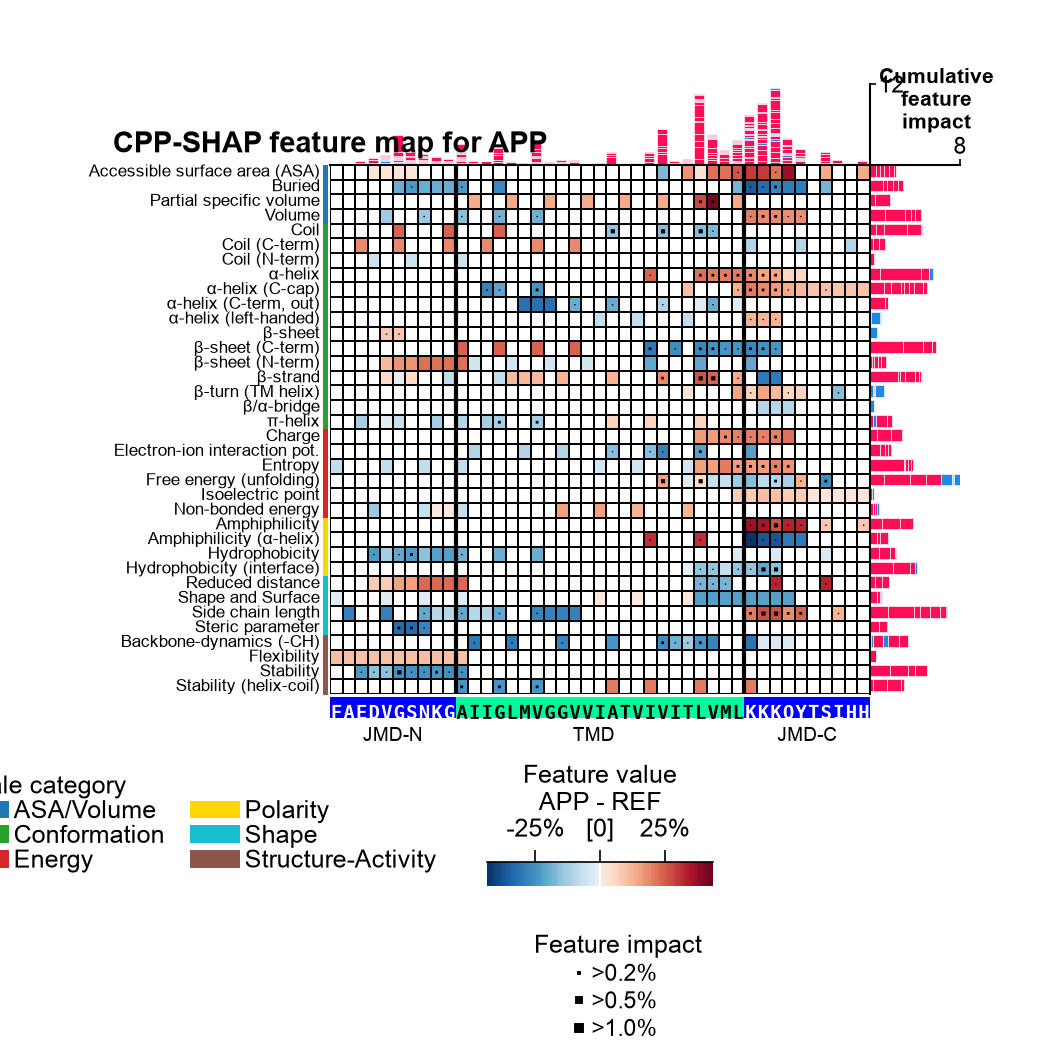
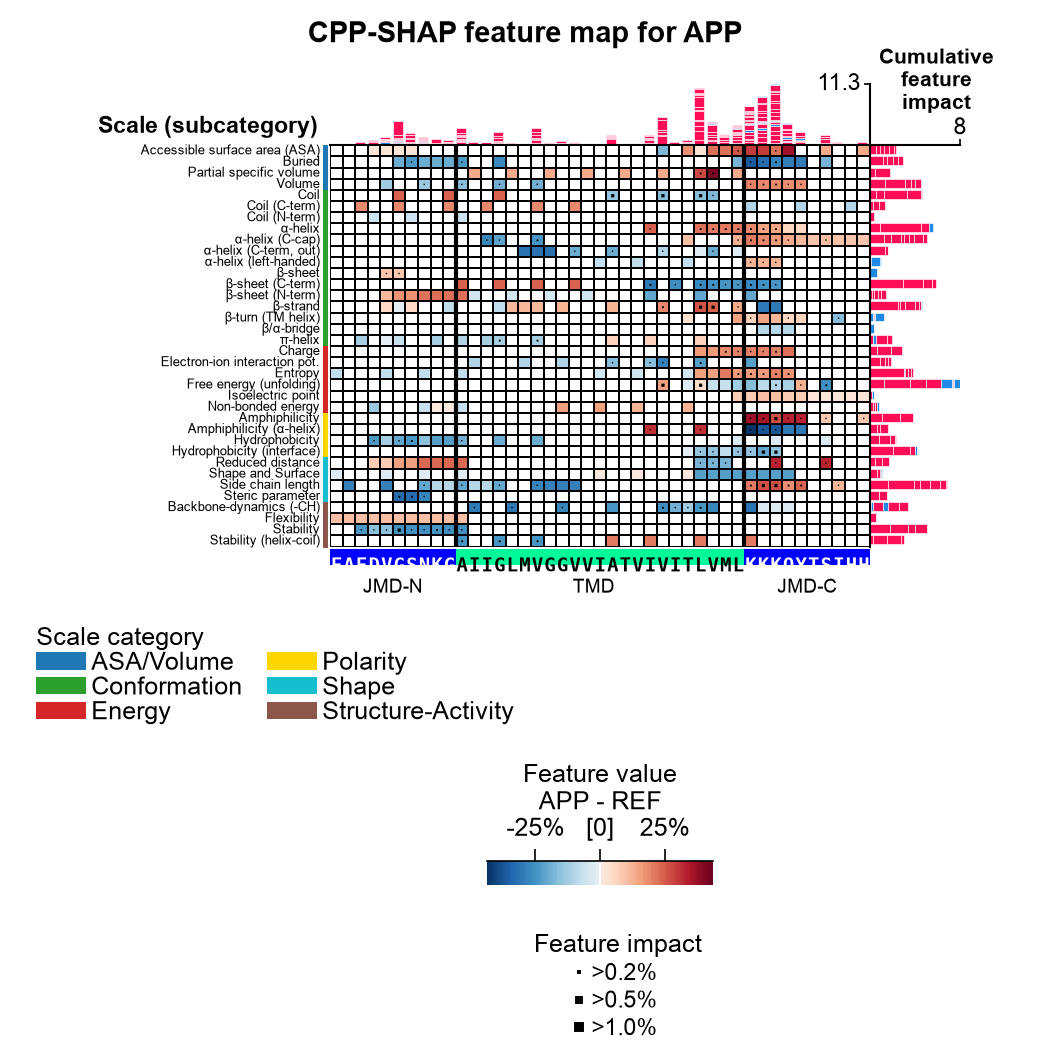
Merge pull request #454 from breimanntools/fix/thumb9-suptitle
docs(thumbs): put the P9 title above the figure, refresh the P1/P9 cards

Pull request: docs(thumbs): put the P9 title above the figure, refresh the P1/P9 cards
**The in-figure title was the wrong one, and it was a mis-targeted call.** `thumb9.py` used `plt.title()`, but after `CPPPlot.feature_map` the *current axes* IS the heatmap (verified: `plt.gca() is ax`, top edge at `y=0.884`), so the title was drawn straight into the cumulative-impact bar chart sitting above it. `fig.suptitle` places it above the whole figure instead.

The gallery caption was never the problem: `protocols.rst` says "P9: Interpretability" and the protocol page title `protocol9_interpretability.rst` is exactly "P9: Interpretability".

Worth noting for whoever hits this next: `feature_map` exposes **no** `title` parameter, which is why the caller reached for `plt.title` in the first place. Adding one is a reasonable follow-up; this PR takes the one-line docs-artwork fix.

**Also refreshes the P1 and P9 cards.** The gallery ships *committed* PNGs, so #450's collision-based legend placement never reached the page: the cards still rendered the old overlap. Re-rendered from `thumb_scripts/thumb1.py` and `thumb9.py`.
[…]

diff --git a/aaanalysis/feature_engineering/_backend/cpp/_utils_cpp_plot_positions.py b/aaanalysis/feature_engineering/_backend/cpp/_utils_cpp_plot_positions.py
@@ -428,8 +428,13 @@ def align_bottom_furniture_(fig=None, ax=None, gap_in=_FURNITURE_GAP_IN, item_ga
             cat_legend.set_loc("upper left")
             cat_legend.set_bbox_to_anchor((left_in / w_in, top_frac), transform=fig.transFigure)
         elif cbar_left_in is not None:
+            # Clustered just left of the colorbar, but never past the left content edge: a legend
+            # wider than the gap beside the colorbar would otherwise be anchored off-canvas and lose
+            # its title to the figure edge. Clamping keeps it flush left instead -- crowding the
+            # colorbar is recoverable (grow_to_fit widens the figure), a clipped title is not.
+            anchor_in = max(cbar_left_in - item_gap_in, left_in + cat_w)
             cat_legend.set_loc("upper right")
-            cat_legend.set_bbox_to_anchor(((cbar_left_in - item_gap_in) / w_in, top_frac), transform=fig.transFigure)
+            cat_legend.set_bbox_to_anchor((anchor_in / w_in, top_frac), transform=fig.transFigure)
     # Feature-importance legend: right content edge when it clears the centred colorbar; otherwise drop
     # it to a SECOND row below the colorbar (still right-aligned), so the narrow top row only holds the
     # category legend + colorbar.

diff --git a/docs/source/_artwork/thumb_scripts/thumb9.py b/docs/source/_artwork/thumb_scripts/thumb9.py
@@ -43,7 +43,9 @@ def main():
     fig, ax = cpp_plot.feature_map(df_feat=df_feat, shap_plot=True,
                                    col_val="mean_dif_APP", col_imp="feat_impact_APP",
                                    name_test="APP", figsize=(7, 7), **seq_kws)
-    plt.title("CPP-SHAP feature map for APP", fontsize=fs + 4, weight="bold")
+    # suptitle, not plt.title: after feature_map the current axes IS the heatmap, so
+    # plt.title would draw the title into the cumulative-impact bar chart above it.
+    fig.suptitle("CPP-SHAP feature map for APP", fontsize=fs + 4, weight="bold")
 
     fig.set_size_inches(7, 7)
     # Leave headroom so the title is not clipped (saved without bbox_inches="tight").